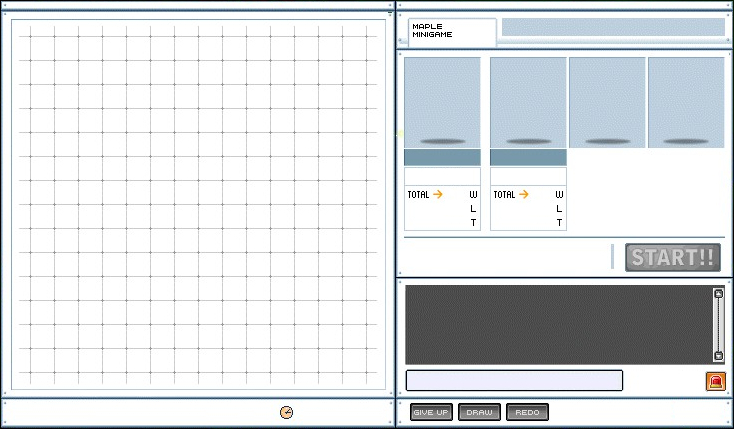
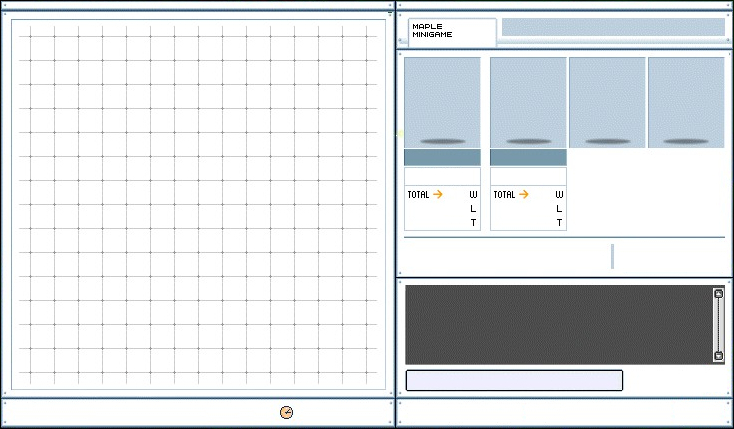
updated board picture

Changed region(s): [[0.8392, 0.5455, 0.9891, 0.6364], [0.5395, 0.9394, 0.7493, 1.0], [0.9591, 0.8485, 0.9891, 0.9091]]

diff --git a/react-app/src/components/gamearea/Chat.js b/react-app/src/components/gamearea/Chat.js
@@ -8,6 +8,10 @@ const Chat = () => {
   const [messages, setMessages] = useState([]);
   const user = useSelector((state) => state.session.user);
 
+  //When someone joins: Username has joined!
+  //Every time a PLAYER (one or two) joins, send message:
+  //Owok: Place 5 pieces in a row to win!
+
   useEffect(() => {
     // open socket connection
     // create websocket
@@ -58,7 +62,9 @@ const Chat = () => {
         </div>
         <form onSubmit={sendChat} className="ChatInputBox">
           <input value={chatInput} onChange={updateChatInput} />
-          <button type="submit">Send</button>
+          <button type="submit">
+            <i className="fa-solid fa-arrow-turn-up"></i>
+          </button>
         </form>
       </div>
     )

diff --git a/react-app/src/components/gamearea/GameArea.css b/react-app/src/components/gamearea/GameArea.css
@@ -47,4 +47,13 @@
     background-color: none;
     border: none;
     outline: none;
+    position: relative;
+    bottom: -7px;
+    right: -12px;
+    color: rgb(66, 66, 66);
+}
+
+.ChatInputBox > button:hover {
+    cursor: pointer;
+    color: black;
 }
